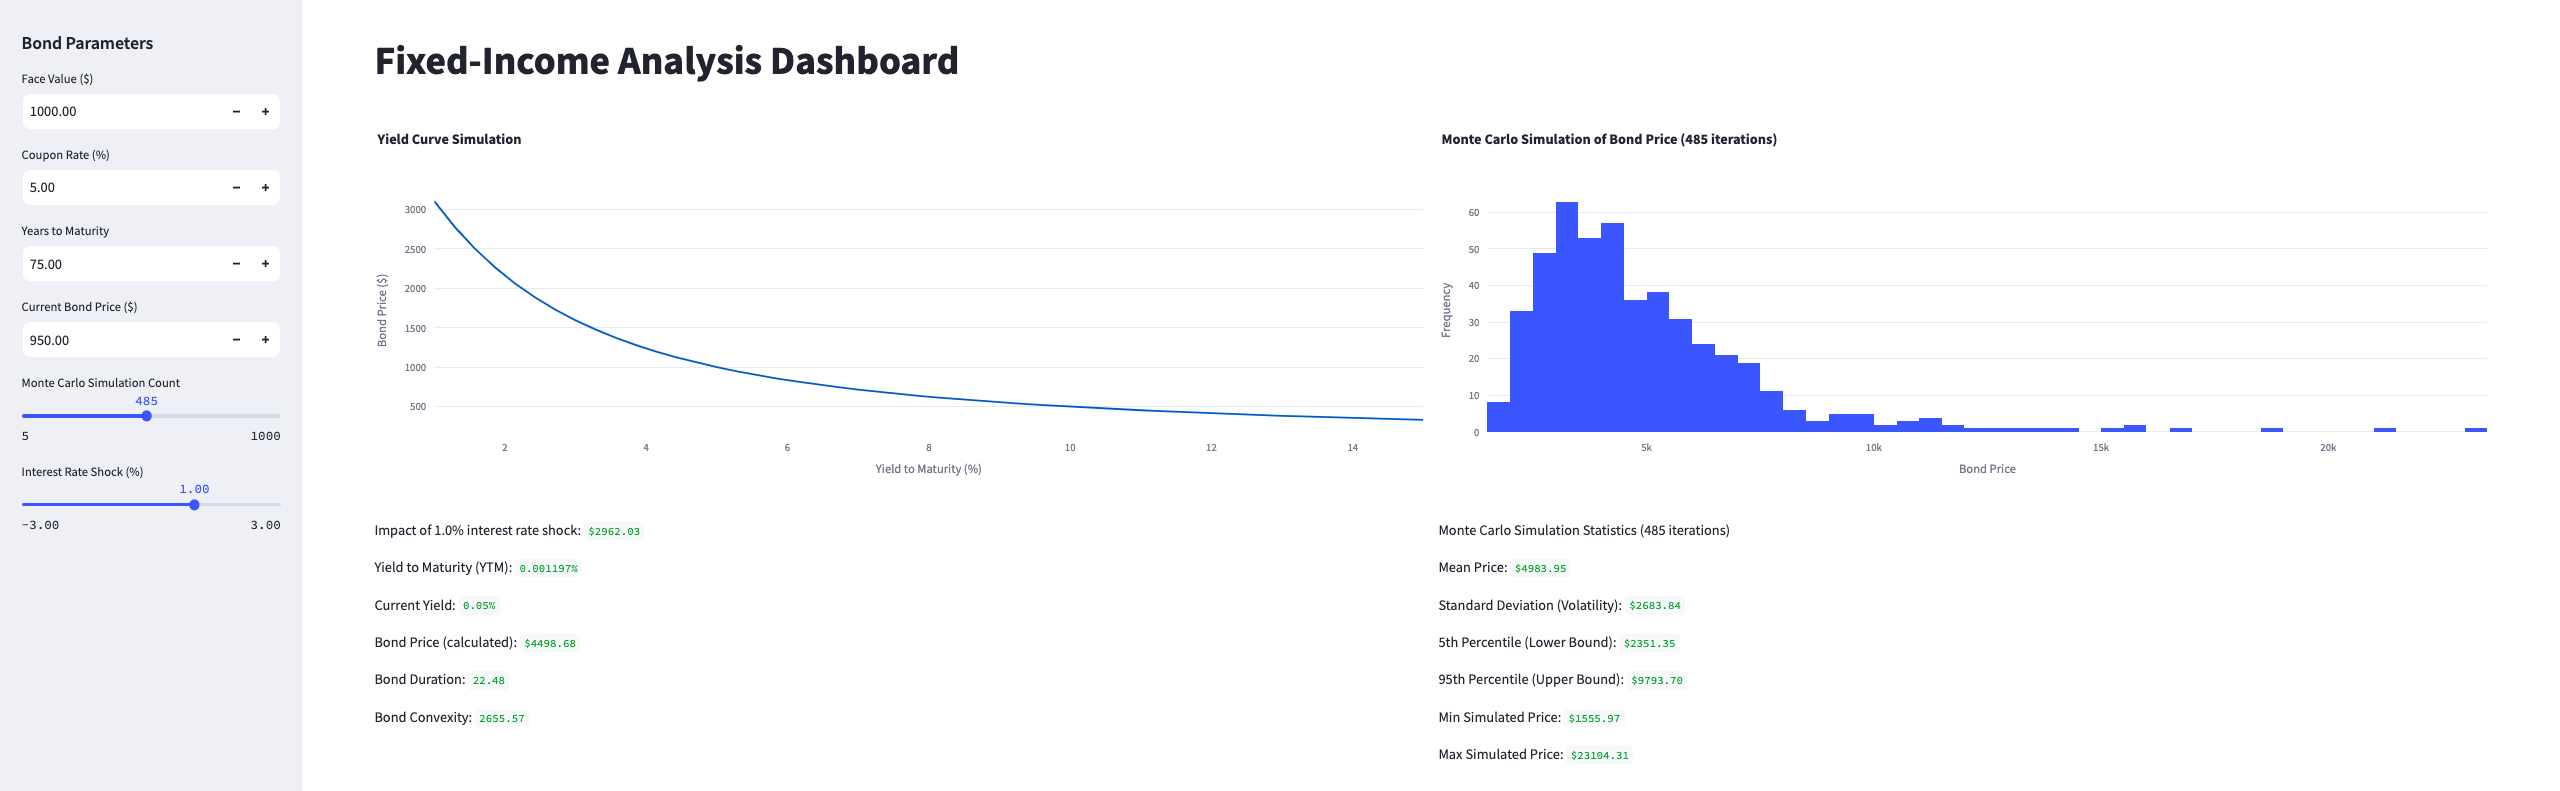
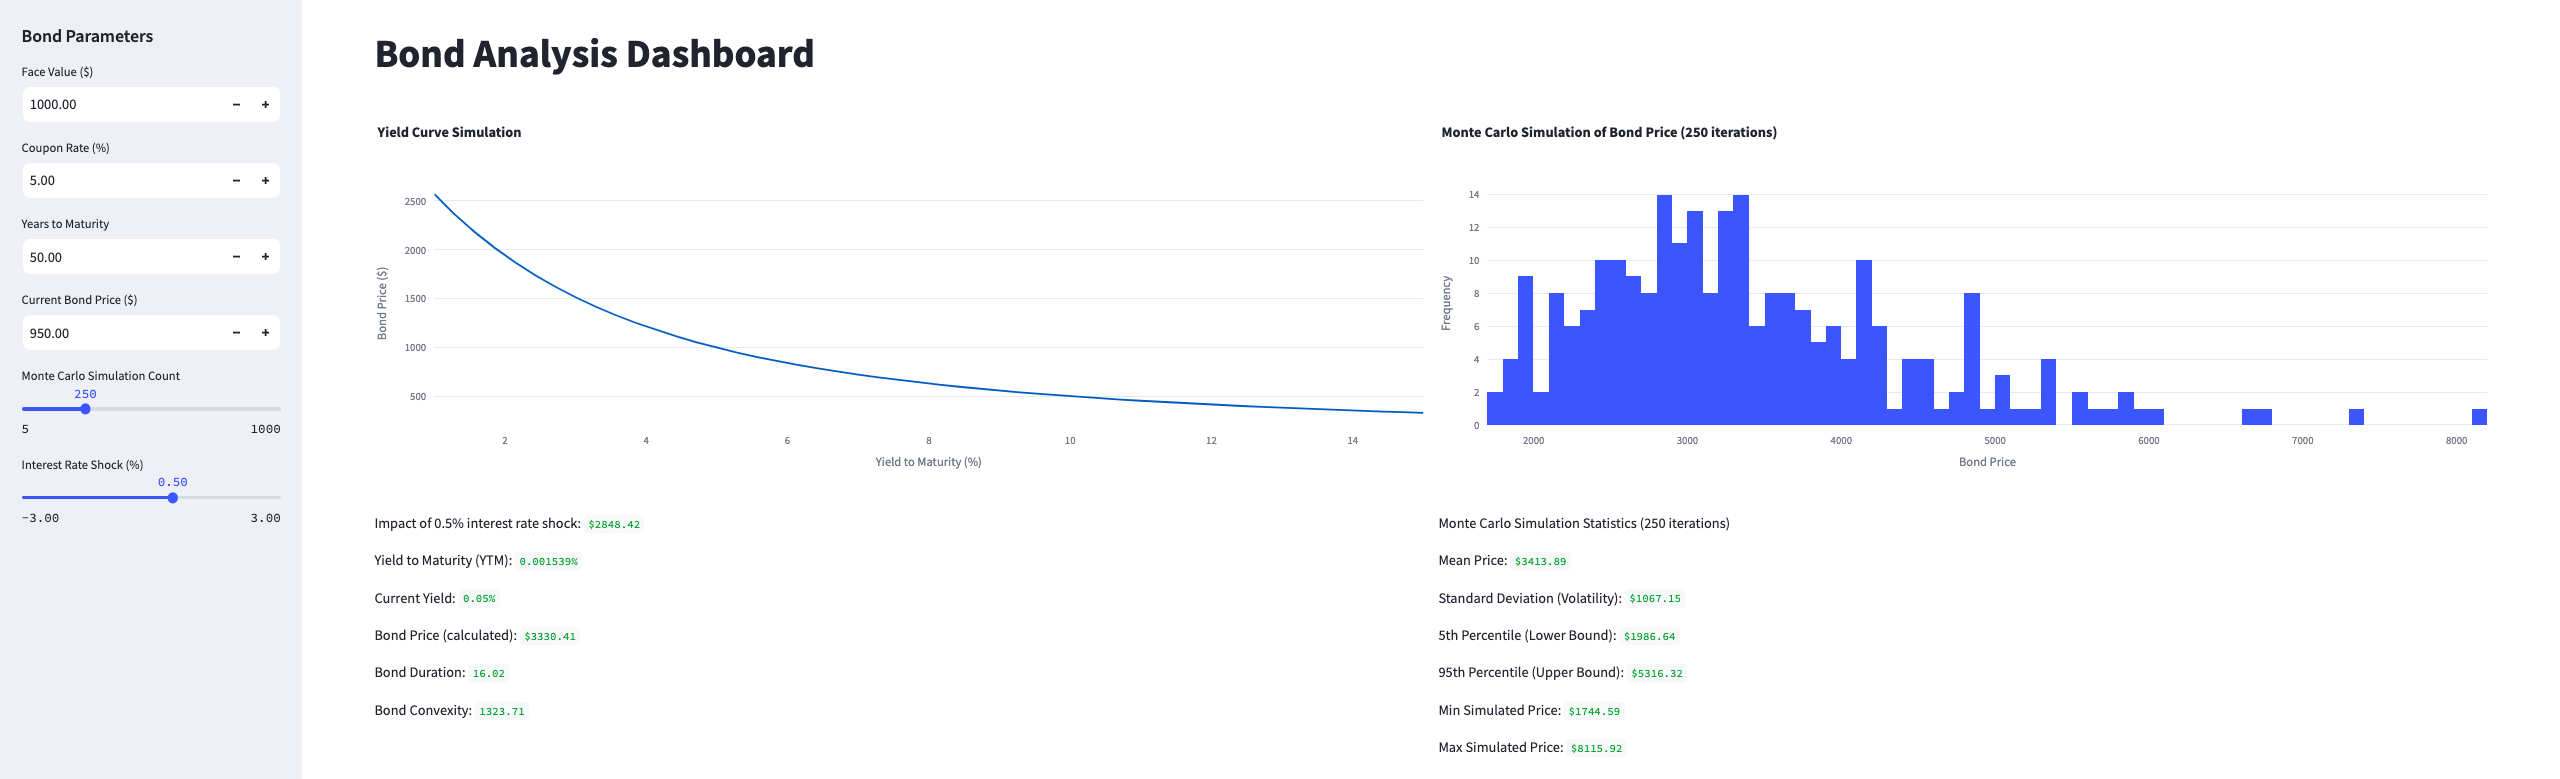
send

diff --git a/bond-analysis-dashboard.py b/bond-analysis-dashboard.py
@@ -84,12 +84,12 @@ def monte_carlo_simulation(face_value, coupon_rate, years, current_price, iterat
     return prices
 
 st.set_page_config(
-    page_title="Fixed-Income Analysis Dashboard",
+    page_title="Bond Analysis Dashboard",
     page_icon="feature.png",  
     layout="wide",  
 )
 
-st.title('Fixed-Income Analysis Dashboard')
+st.title('Bond Analysis Dashboard')
 st.sidebar.header('Bond Parameters')
 face_value = st.sidebar.number_input('Face Value ($)', value=1000.00, format='%.2f')
 coupon_rate = st.sidebar.number_input('Coupon Rate (%)', value=5.00, format='%.2f') / 100
